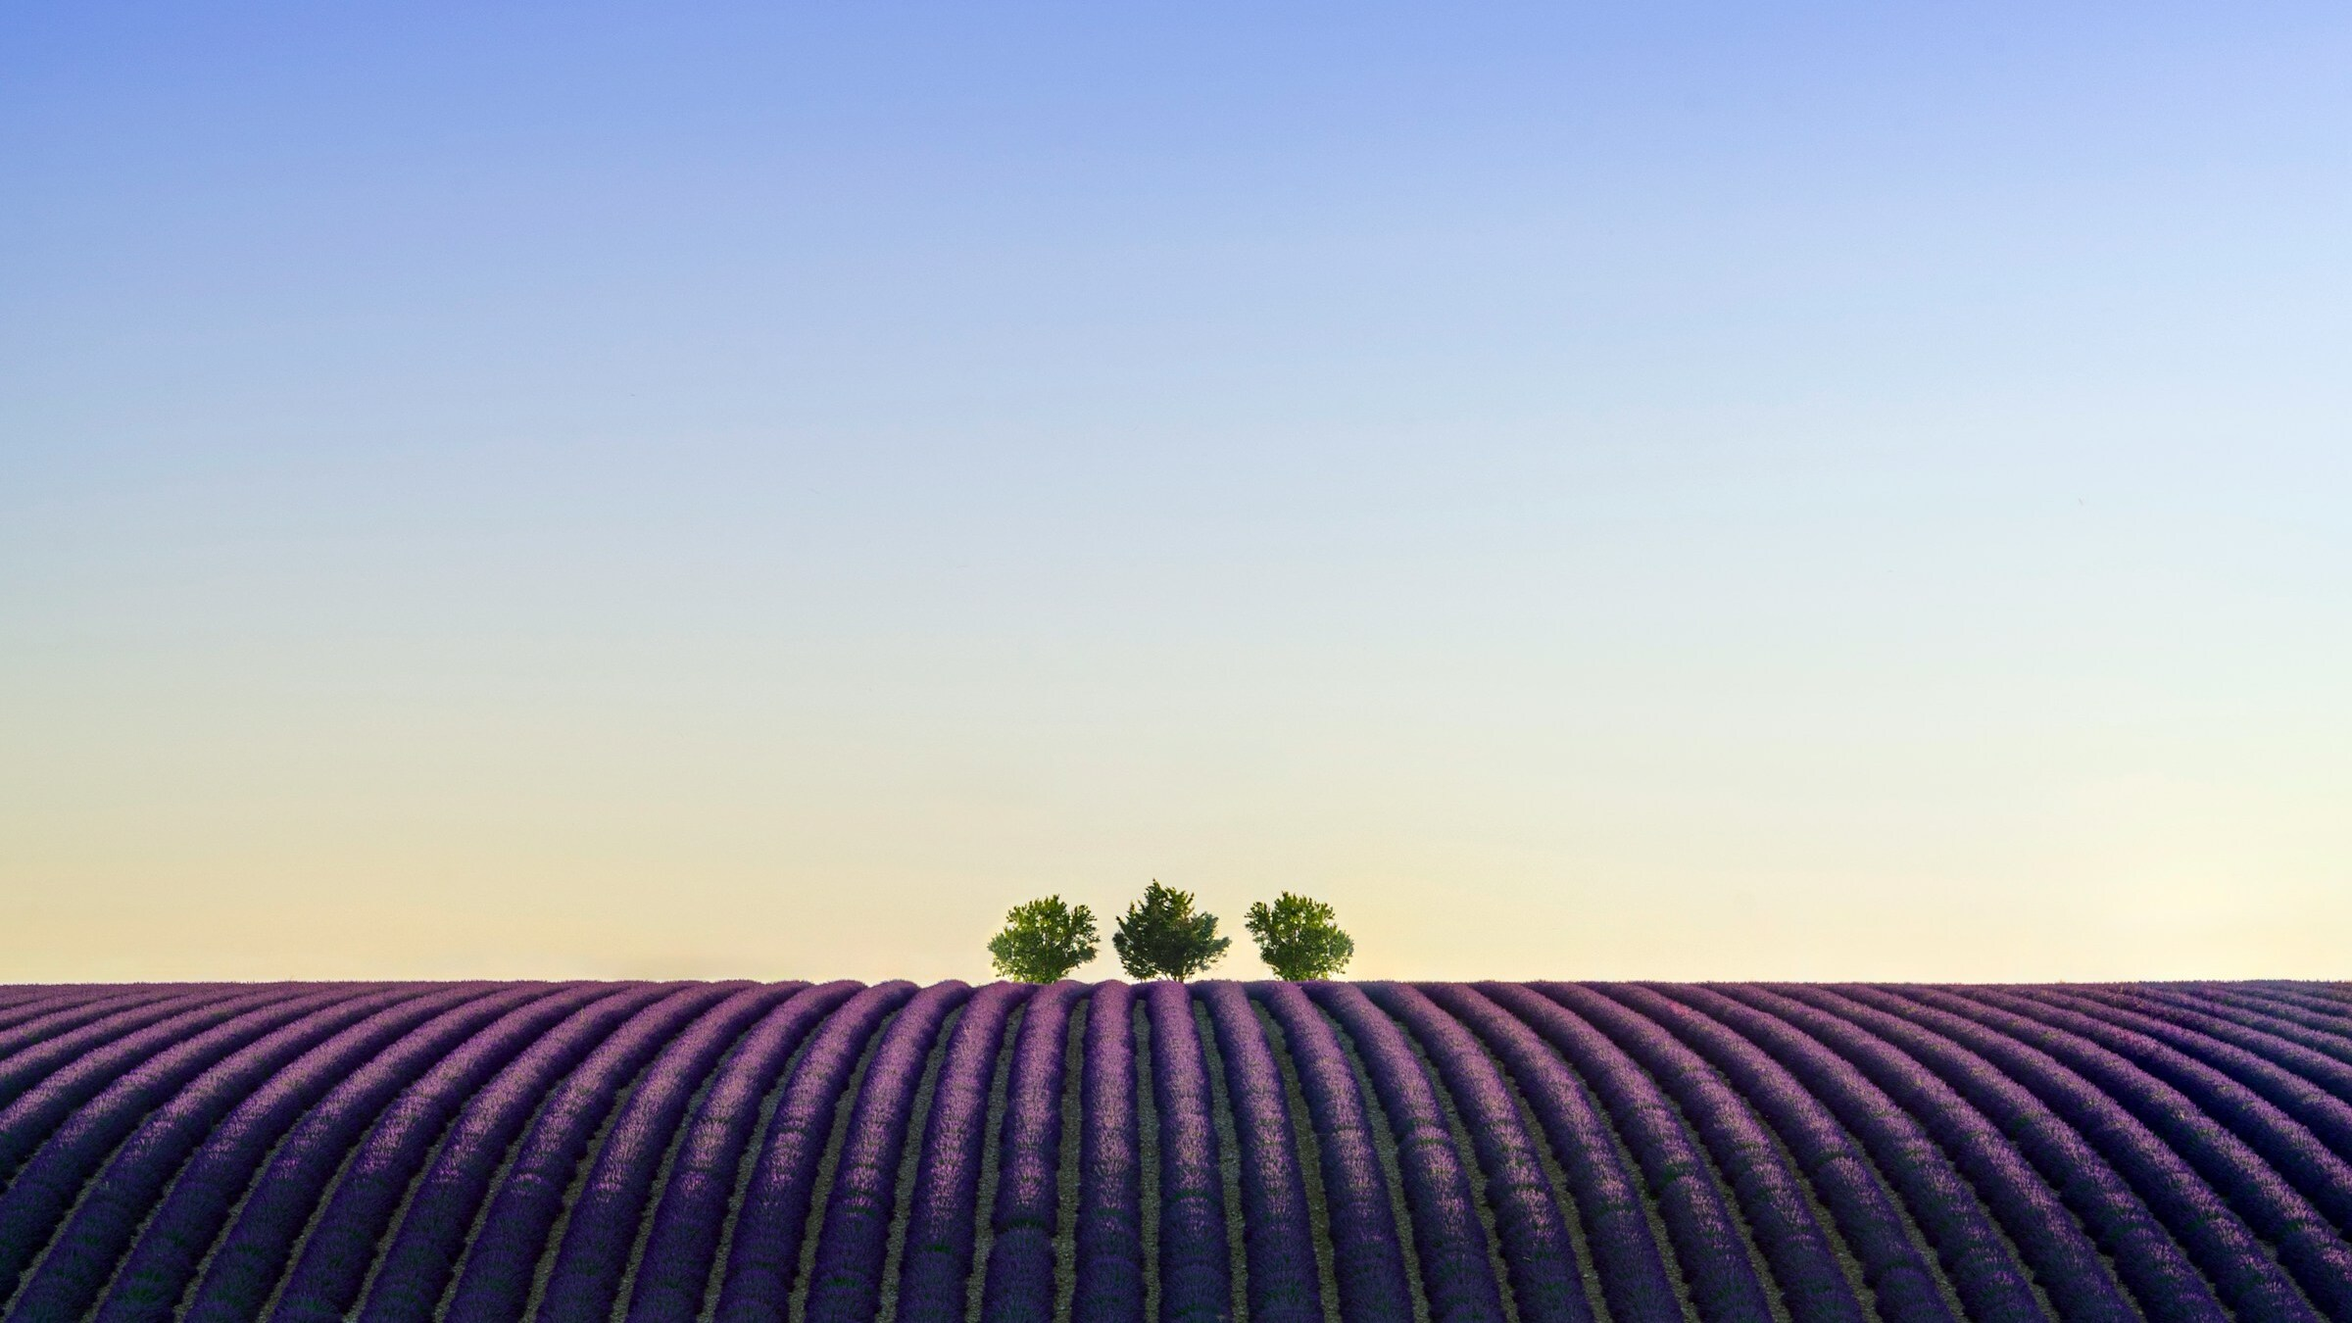
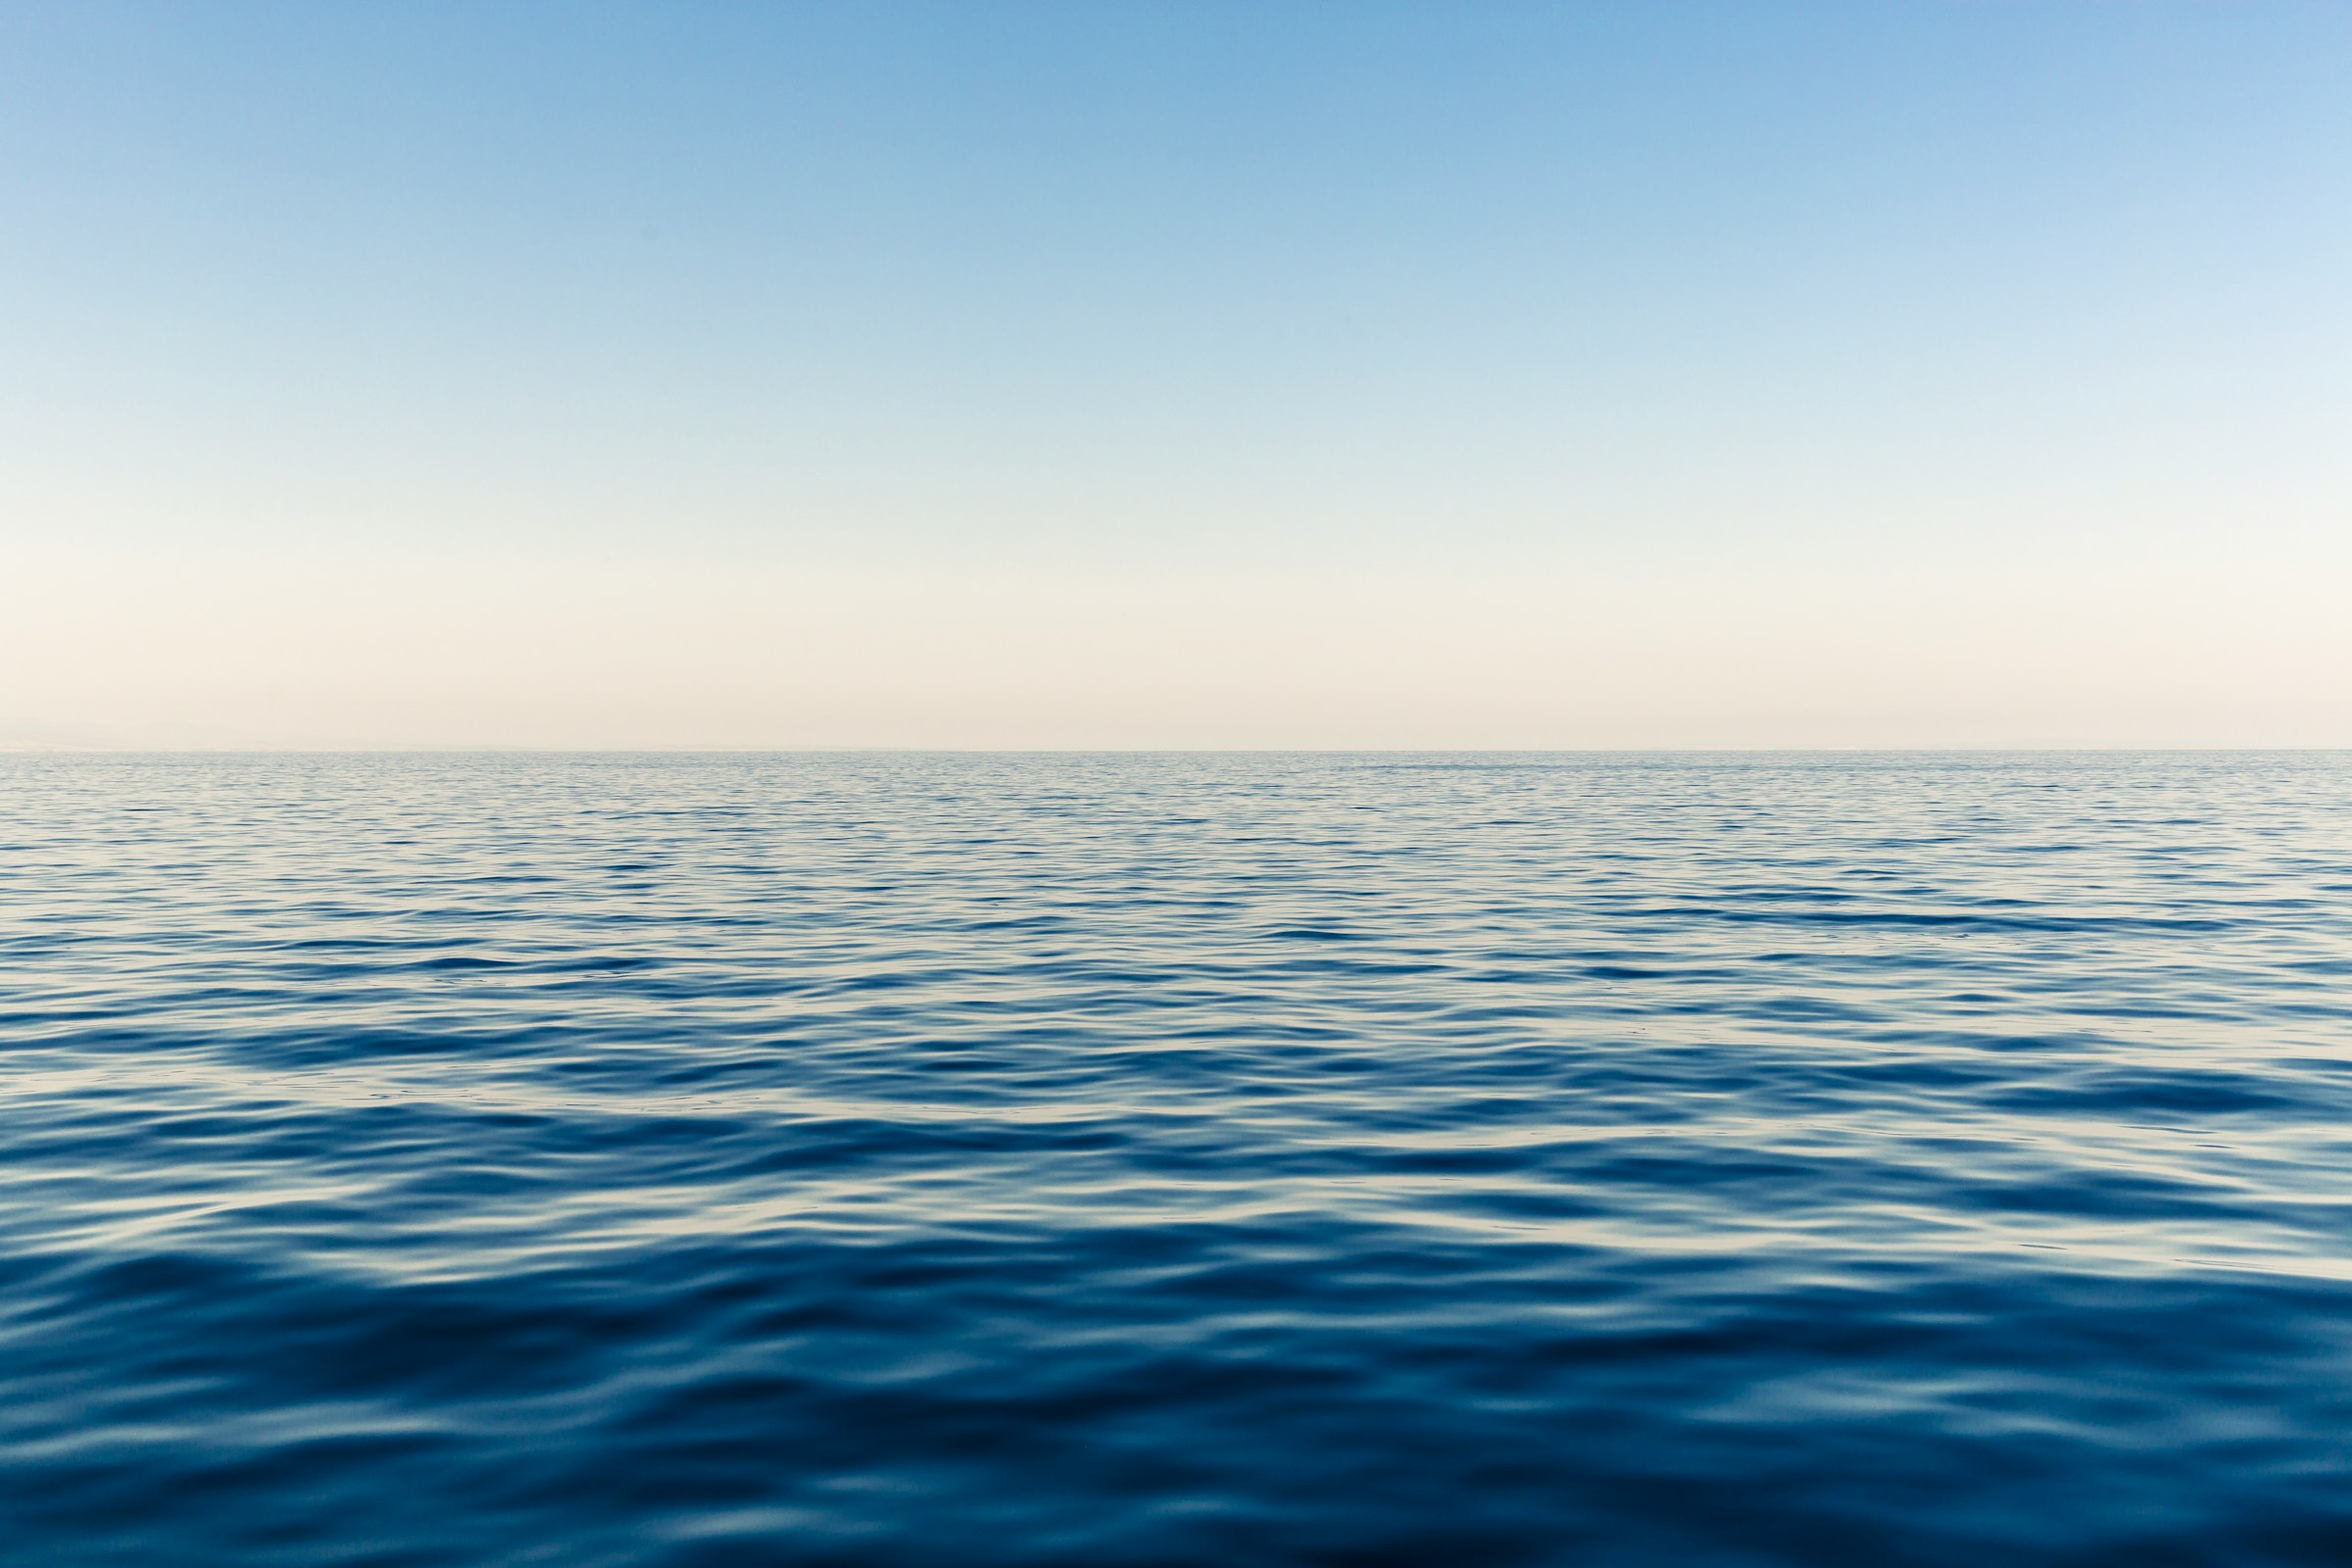
Migrate admin auth to Supabase SSR session management
- Replace static token cookie with Supabase email/password auth
- Add @supabase/ssr for server-side session handling via cookies
- Guard DELETE/PATCH booking endpoints with requireAdmin check
- Add env.d.ts with App.Locals user type
- Add email field to login form; remove ADMIN_TOKEN/ADMIN_PASSWORD env usage

diff --git a/src/pages/api/booking.ts b/src/pages/api/booking.ts
@@ -1,13 +1,27 @@
 import type { APIRoute } from "astro";
-import { getSupabase } from "../../lib/supabase";
+import type { AstroCookies } from "astro";
+import { getSupabaseAdmin, getSupabaseServer } from "../../lib/supabase";
 
 export const prerender = false;
+
+async function requireAdmin(cookies: AstroCookies, request: Request): Promise<Response | null> {
+  const supabase = getSupabaseServer(cookies, request);
+  const { data: { user } } = await supabase.auth.getUser();
+
+  if (!user) {
+    return new Response(
+      JSON.stringify({ error: "Μη εξουσιοδοτημένη πρόσβαση" }),
+      { status: 401 },
+    );
+  }
+  return null;
+}
 
 export const GET: APIRoute = async ({ url }) => {
   const date = url.searchParams.get("date");
 
   if (date) {
-    const { data, error } = await getSupabase()
+    const { data, error } = await getSupabaseAdmin()
       .from("bookings")
       .select("hour")
       .eq("date", date);
@@ -20,7 +34,7 @@ export const GET: APIRoute = async ({ url }) => {
     return new Response(JSON.stringify({ bookedHours }), { status: 200 });
   }
 
-  const { data, error } = await getSupabase()
+  const { data, error } = await getSupabaseAdmin()
     .from("bookings")
     .select("*")
     .order("date", { ascending: true })
@@ -33,14 +47,17 @@ export const GET: APIRoute = async ({ url }) => {
   return new Response(JSON.stringify(data), { status: 200 });
 };
 
-export const DELETE: APIRoute = async ({ request }) => {
+export const DELETE: APIRoute = async ({ request, cookies }) => {
+  const authError = await requireAdmin(cookies, request);
+  if (authError) return authError;
+
   const { id } = await request.json();
 
   if (!id) {
     return new Response(JSON.stringify({ error: "ID απαιτείται" }), { status: 400 });
   }
 
-  const { error } = await getSupabase().from("bookings").delete().eq("id", id);
+  const { error } = await getSupabaseAdmin().from("bookings").delete().eq("id", id);
 
   if (error) {
     return new Response(JSON.stringify({ error: "Αποτυχία διαγραφής" }), { status: 500 });
@@ -49,7 +66,10 @@ export const DELETE: APIRoute = async ({ request }) => {
   return new Response(JSON.stringify({ success: true }), { status: 200 });
 };
 
-export const PATCH: APIRoute = async ({ request }) => {
+export const PATCH: APIRoute = async ({ request, cookies }) => {
+  const authError = await requireAdmin(cookies, request);
+  if (authError) return authError;
+
   const { id, name, phone, date, hour } = await request.json();
 
   if (!id) {
@@ -63,7 +83,7 @@ export const PATCH: APIRoute = async ({ request }) => {
   if (hour) updates.hour = hour;
 
   if (date || hour) {
-    const { data: current } = await getSupabase()
+    const { data: current } = await getSupabaseAdmin()
       .from("bookings")
       .select("date, hour")
       .eq("id", id)
@@ -72,7 +92,7 @@ export const PATCH: APIRoute = async ({ request }) => {
     const checkDate = date || current?.date;
     const checkHour = hour || current?.hour;
 
-    const { data: conflict } = await getSupabase()
+    const { data: conflict } = await getSupabaseAdmin()
       .from("bookings")
       .select("id")
       .eq("date", checkDate)
@@ -88,7 +108,7 @@ export const PATCH: APIRoute = async ({ request }) => {
     }
   }
 
-  const { error } = await getSupabase().from("bookings").update(updates).eq("id", id);
+  const { error } = await getSupabaseAdmin().from("bookings").update(updates).eq("id", id);
 
   if (error) {
     return new Response(JSON.stringify({ error: "Αποτυχία ενημέρωσης" }), { status: 500 });
@@ -107,7 +127,7 @@ export const POST: APIRoute = async ({ request }) => {
     });
   }
 
-  const { data: existing } = await getSupabase()
+  const { data: existing } = await getSupabaseAdmin()
     .from("bookings")
     .select("id")
     .eq("date", date)
@@ -121,7 +141,7 @@ export const POST: APIRoute = async ({ request }) => {
     );
   }
 
-  const { error } = await getSupabase().from("bookings").insert({
+  const { error } = await getSupabaseAdmin().from("bookings").insert({
     name,
     phone,
     date,

diff --git a/src/lib/supabase.ts b/src/lib/supabase.ts
@@ -1,14 +1,41 @@
 import { createClient } from "@supabase/supabase-js";
+import { createServerClient } from "@supabase/ssr";
+import type { AstroCookies } from "astro";
 
-// eslint-disable-next-line @typescript-eslint/no-explicit-any
-let _supabase: ReturnType<typeof createClient<any>> | null = null;
+let _supabaseAdmin: ReturnType<typeof createClient> | null = null;
 
-export function getSupabase() {
-  if (!_supabase) {
-    _supabase = createClient<any>(
+export function getSupabaseAdmin() {
+  if (!_supabaseAdmin) {
+    _supabaseAdmin = createClient(
       import.meta.env.SUPABASE_URL,
       import.meta.env.SUPABASE_SERVICE_ROLE_KEY,
     );
   }
-  return _supabase;
+  return _supabaseAdmin;
+}
+
+export function getSupabaseServer(cookies: AstroCookies, request: Request) {
+  return createServerClient(
+    import.meta.env.SUPABASE_URL,
+    import.meta.env.SUPABASE_ANON_KEY,
+    {
+      cookies: {
+        getAll() {
+          const cookieHeader = request.headers.get("cookie") ?? "";
+          return cookieHeader
+            .split(";")
+            .filter(Boolean)
+            .map((c) => {
+              const [name, ...rest] = c.trim().split("=");
+              return { name, value: rest.join("=") };
+            });
+        },
+        setAll(cookiesToSet) {
+          for (const { name, value, options } of cookiesToSet) {
+            cookies.set(name, value, options);
+          }
+        },
+      },
+    },
+  );
 }

diff --git a/src/pages/api/admin-login.ts b/src/pages/api/admin-login.ts
@@ -1,21 +1,23 @@
 import type { APIRoute } from "astro";
+import { getSupabaseServer } from "../../lib/supabase";
 
 export const prerender = false;
 
 export const POST: APIRoute = async ({ request, cookies }) => {
-  const { password } = await request.json();
+  const { email, password } = await request.json();
 
-  if (!password || password !== import.meta.env.ADMIN_PASSWORD) {
-    return new Response(JSON.stringify({ error: "Λάθος κωδικός" }), { status: 401 });
-  }
-
-  cookies.set("admin_token", import.meta.env.ADMIN_TOKEN, {
-    path: "/",
-    httpOnly: true,
-    secure: import.meta.env.PROD,
-    sameSite: "lax",
-    maxAge: 60 * 60 * 24 * 7, // 7 days
+  const supabase = getSupabaseServer(cookies, request);
+  const { error } = await supabase.auth.signInWithPassword({
+    email,
+    password,
   });
+
+  if (error) {
+    return new Response(
+      JSON.stringify({ error: "Λάθος email ή κωδικός" }),
+      { status: 401 },
+    );
+  }
 
   return new Response(JSON.stringify({ success: true }), { status: 200 });
 };

diff --git a/src/middleware.ts b/src/middleware.ts
@@ -1,13 +1,15 @@
 import { defineMiddleware } from "astro:middleware";
+import { getSupabaseServer } from "./lib/supabase";
 
-export const onRequest = defineMiddleware((context, next) => {
+export const onRequest = defineMiddleware(async (context, next) => {
   const { pathname } = context.url;
 
-  if (pathname.startsWith("/admin") && pathname !== "/admin/login") {
-    const token = context.cookies.get("admin_token")?.value;
-    const expected = import.meta.env.ADMIN_TOKEN;
+  if (pathname.startsWith("/admin")) {
+    const supabase = getSupabaseServer(context.cookies, context.request);
+    const { data: { user } } = await supabase.auth.getUser();
+    context.locals.user = user;
 
-    if (!token || token !== expected) {
+    if (pathname !== "/admin/login" && !user) {
       return context.redirect("/admin/login");
     }
   }

diff --git a/src/pages/api/admin-logout.ts b/src/pages/api/admin-logout.ts
@@ -1,8 +1,11 @@
 import type { APIRoute } from "astro";
+import { getSupabaseServer } from "../../lib/supabase";
 
 export const prerender = false;
 
-export const POST: APIRoute = async ({ cookies }) => {
-  cookies.delete("admin_token", { path: "/" });
+export const POST: APIRoute = async ({ request, cookies }) => {
+  const supabase = getSupabaseServer(cookies, request);
+  await supabase.auth.signOut();
+
   return new Response(JSON.stringify({ success: true }), { status: 200 });
 };

diff --git a/src/env.d.ts b/src/env.d.ts
@@ -1,0 +1,7 @@
+/// <reference types="astro/client" />
+
+declare namespace App {
+  interface Locals {
+    user: import("@supabase/supabase-js").User | null;
+  }
+}
